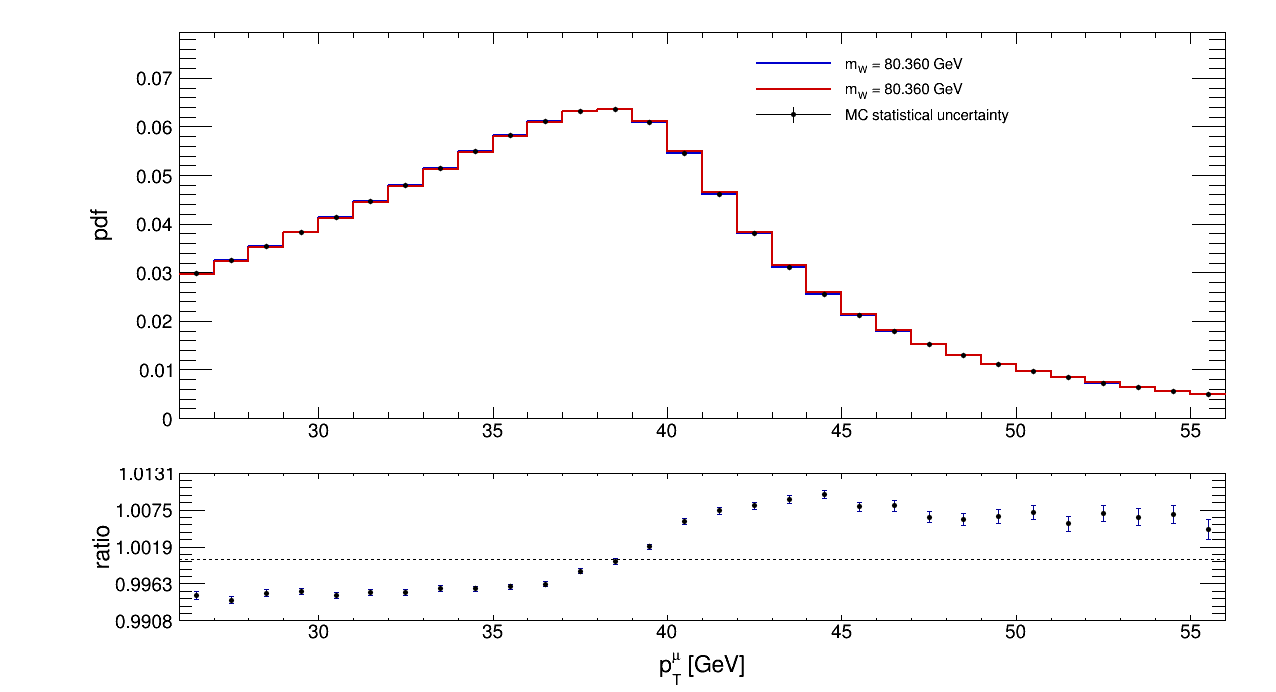
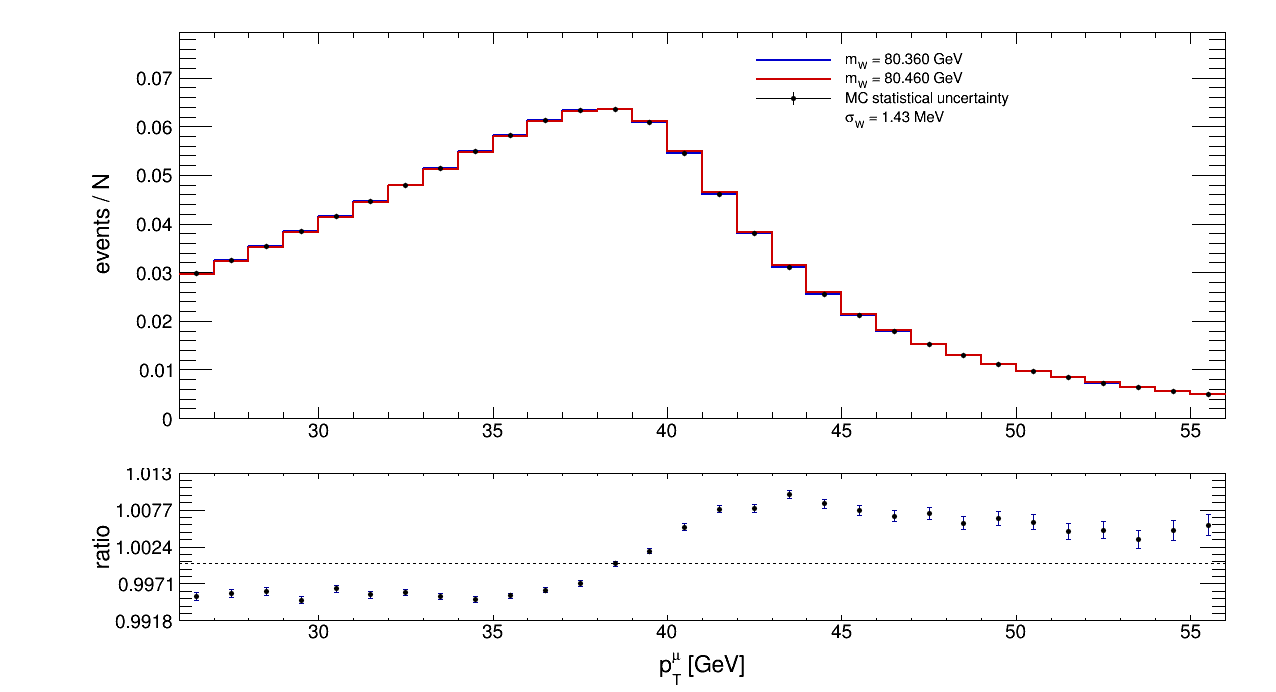
modifiche sui nomi delle classi e aggiunta di save_histogram()

diff --git a/main.cpp b/main.cpp
@@ -3,7 +3,7 @@
 #include <ROOT/RDataFrame.hxx>
 
 #include <SpectrumBuilder.hpp>
-#include <MassSensitivityAnalyzer.hpp>
+#include <FisherInformation.hpp>
 #include <HistUtils.hpp>
 
 #include <filesystem>
@@ -75,6 +75,7 @@ const char* output_dir{ DATA_DIR "/results" };
 const char* input_file{ DATA_DIR "/input/parameters.txt" };
 const char* output_file{ DATA_DIR "/results/sigma_mass.txt" };
 const char* output_hist_file{ DATA_DIR "/results/template_comparison_plot.png" };
+const char* pT_dist_dir{ DATA_DIR "/results/pT_dist.png" };
 
 int main(int argc, char** argv)
 {
@@ -96,6 +97,20 @@ int main(int argc, char** argv)
 
     auto pT_gen{ std::make_unique<PT_Generator>() };
 
+    save_histogram(pT_gen->get_hist(), pT_dist_dir, {
+        .width = CANVAS_WIDTH,
+        .height = CANVAS_HEIGHT,
+        .name = "pTW distribution",
+        .x_axis_content = "p^{T}_{W} [GeV]",
+        .y_axis_content = "pmf",
+        .color = kBlack,
+        .title_size = 0.055,
+        .label_size = 0.045,
+        .title_offset_x = 0.80,
+        .title_offset_y = 0.80,
+        .draw_settings = ""
+    });
+
 
     WDecaySampler sampler0{
         params.W_MASS0,
@@ -111,13 +126,16 @@ int main(int argc, char** argv)
     auto pdf0{ SpectrumBuilder{sampler0, EVENT_COUNT}.releaseHist() };
     auto pdf1{ SpectrumBuilder{sampler1, EVENT_COUNT}.releaseHist() };
 
-    MassSensitivityAnalyzer analyzer{
+    FisherInformation fi{
         pdf0.get(),
         pdf1.get(),
         W_DELTA
     };
 
-    TemplateComparison tc(pdf0.get(), pdf1.get(), {
+    auto ratioHist{ fi.releaseRatioHist() };
+    double sigma{ fi.sigma() };
+
+    TemplateComparison tc(pdf0.get(), pdf1.get(), sigma, {
         .width = CANVAS_WIDTH,
         .height = CANVAS_HEIGHT,
         .nominal_mass = params.W_MASS0,
@@ -128,7 +146,7 @@ int main(int argc, char** argv)
         .shifted_hist_color = kRed + 1,
         .upper_x_axis_content = "",
         .lower_x_axis_content = "p_{T}^{#mu} [GeV]",
-        .upper_y_axis_content = "pdf",
+        .upper_y_axis_content = "events / N",
         .lower_y_axis_content = "ratio",
         .title_size = 0.055,
         .label_size = 0.045,
@@ -138,8 +156,7 @@ int main(int argc, char** argv)
 
     tc.save_as(output_hist_file);
 
-    auto ratioHist{ analyzer.releaseRatioHist() };
-    double sigma{ analyzer.sigma() };
+    
 
     auto end{ std::chrono::high_resolution_clock::now() };
     auto elapsed{ std::chrono::duration_cast<std::chrono::milliseconds>(end - start) };
@@ -147,7 +164,7 @@ int main(int argc, char** argv)
     std::ostringstream content;
     content << "sigma_mass = " << sigma << " GeV\n\n"
             << "generated events = " << EVENT_COUNT << "\n"
-            << "selected events = " << analyzer.get_selected_events_count() << "\n"
+            << "selected events = " << fi.get_selected_events_count() << "\n"
             << "acceptance mass 0 = " << (static_cast<double>(pdf0->Integral()) / EVENT_COUNT) << "\n"
             << "acceptance mass 1 = " << (static_cast<double>(pdf1->Integral()) / EVENT_COUNT) << "\n"
             << "execution time = " << elapsed.count() / 1000. << " s\n";

diff --git a/src/HistUtils.cpp b/src/HistUtils.cpp
@@ -3,9 +3,11 @@
 #include <TLegend.h>
 #include <TLine.h>
 
+#include <format>
 
-TemplateComparison::TemplateComparison(TH1* nominal, TH1* shifted,const CanvasPropeties& props)
-: CanvasProps{ props }
+
+TemplateComparison::TemplateComparison(TH1* nominal, TH1* shifted, double sigmaW, const CanvasPropeties& props)
+: CanvasProps{ props }, SigmaW{ sigmaW }
 {
     if (!nominal || !shifted)
         throw std::runtime_error("Null histogram");
@@ -162,13 +164,13 @@ void TemplateComparison::save_as(const std::string& path)
 
     legend.AddEntry(
         Nominal.get(),
-        Form("m_{W} = %.3f GeV", CanvasProps.nominal_mass),
+        std::format("m_{{W}} = {:.3f} GeV", CanvasProps.nominal_mass).c_str(),
         "l"
     );
 
     legend.AddEntry(
         Shifted.get(),
-        Form("m_{W} = %.3f GeV", CanvasProps.nominal_mass),
+        std::format("m_{{W}} = {:.3f} GeV", CanvasProps.shifted_mass).c_str(),
         "l"
     );
 
@@ -177,6 +179,12 @@ void TemplateComparison::save_as(const std::string& path)
         "MC statistical uncertainty",
         "lep"
     );
+    legend.AddEntry(
+        (TObject*)nullptr,
+        std::format("#sigma_{{W}} = {:.2f} MeV", SigmaW * 1000.).c_str(),
+        ""    
+    );
+    
 
     legend.Draw();
 
@@ -201,5 +209,43 @@ void TemplateComparison::save_as(const std::string& path)
     unity.Draw("SAME");
 
     canvas.cd();
+    canvas.SaveAs(path.c_str());
+}
+
+void save_histogram(TH1* hist, const std::string& path, const SaveHistParams& params)
+{
+    auto copy{ std::unique_ptr<TH1>(dynamic_cast<TH1*>(hist->Clone())) };
+    copy->SetTitle(params.name.c_str());
+
+    TCanvas canvas{
+        "histogram", "", 
+        static_cast<Int_t>(params.width),
+        static_cast<Int_t>(params.height)
+    };
+
+    canvas.cd();
+
+    copy->GetXaxis()->SetTitle(params.x_axis_content.c_str());
+    copy->GetYaxis()->SetTitle(params.y_axis_content.c_str());
+    
+    copy->GetXaxis()->CenterTitle();
+    copy->GetYaxis()->CenterTitle();
+
+
+    copy->GetXaxis()->SetTitleSize(params.title_size);
+    copy->GetXaxis()->SetLabelSize(params.label_size);
+    copy->GetXaxis()->SetTitleOffset(params.title_offset_x);
+    
+    copy->GetYaxis()->SetTitleSize(params.title_size);
+    copy->GetYaxis()->SetLabelSize(params.label_size);
+    copy->GetYaxis()->SetTitleOffset(params.title_offset_y);
+
+    copy->SetLineColor(params.color);
+    copy->SetLineWidth(2);
+    copy->SetFillStyle(0);
+
+    copy->SetStats(false);
+    copy->Draw(params.draw_settings.c_str());
+
     canvas.SaveAs(path.c_str());
 }

diff --git a/src/FisherInformation.cpp b/src/FisherInformation.cpp
@@ -1,8 +1,8 @@
-#include <MassSensitivityAnalyzer.hpp>
+#include <FisherInformation.hpp>
 #include <cmath>
 #include <iostream>
 
-MassSensitivityAnalyzer::MassSensitivityAnalyzer(TH1D* h0, TH1D* h1, double deltaMass)
+FisherInformation::FisherInformation(TH1D* h0, TH1D* h1, double deltaMass)
 {
     ratioHist = std::unique_ptr<TH1D>(
         dynamic_cast<TH1D*>(h1->Clone("h_ratio"))
@@ -28,21 +28,21 @@ MassSensitivityAnalyzer::MassSensitivityAnalyzer(TH1D* h0, TH1D* h1, double delt
     selectedEvents = h0->Integral();
     sigmaMass = 1.0 / std::sqrt(selectedEvents * fisher);
 }
-std::size_t MassSensitivityAnalyzer::get_selected_events_count() const
+std::size_t FisherInformation::get_selected_events_count() const
 {
     return selectedEvents;
 }
 
-TH1D* MassSensitivityAnalyzer::getRatioHist() const
+TH1D* FisherInformation::getRatioHist() const
 {
     return ratioHist.get();
 }
-std::unique_ptr<TH1D> MassSensitivityAnalyzer::releaseRatioHist()
+std::unique_ptr<TH1D> FisherInformation::releaseRatioHist()
 {
     return std::move(ratioHist);
 }
 
-double MassSensitivityAnalyzer::sigma() const
+double FisherInformation::sigma() const
 {
     return sigmaMass;
 }

diff --git a/include/HistUtils.hpp b/include/HistUtils.hpp
@@ -30,7 +30,7 @@ public:
         double title_offset_y;
     };
 
-    TemplateComparison(TH1* nominal, TH1* shifted,const CanvasPropeties& props);
+    TemplateComparison(TH1* nominal, TH1* shifted, double sigmaW, const CanvasPropeties& props);
 
     TemplateComparison(const TemplateComparison&) = delete;
     TemplateComparison& operator=(const TemplateComparison&) = delete;
@@ -43,8 +43,25 @@ public:
     ~TemplateComparison() = default;
 private:
     std::unique_ptr<TH1> Nominal, Shifted, Ratio, Error;
-    
     CanvasPropeties CanvasProps;
+    double SigmaW;
 };
+
+
+struct SaveHistParams
+{
+    std::size_t width;
+    std::size_t height; 
+    std::string name;
+    std::string x_axis_content;
+    std::string y_axis_content;
+    int color;
+    double title_size;
+    double label_size;
+    double title_offset_x;
+    double title_offset_y;
+    std::string draw_settings;
+};
+void save_histogram(TH1* hist, const std::string& path, const SaveHistParams& params);
 
 #endif //HISTUTILS_HPP

diff --git a/include/FisherInformation.hpp b/include/FisherInformation.hpp
@@ -1,0 +1,31 @@
+#ifndef FISHERINFORMATION_HPP
+#define FISHERINFORMATION_HPP
+
+#include <TH1.h>
+
+class FisherInformation
+{
+public:
+    FisherInformation() = delete;
+    FisherInformation(TH1D* h0, TH1D* h1, double deltaMass);
+
+    FisherInformation(const FisherInformation&) = delete;
+    FisherInformation& operator=(const FisherInformation&) = delete;
+
+    FisherInformation(FisherInformation&&) = default;
+    FisherInformation& operator=(FisherInformation&&) = default;
+
+    TH1D* getRatioHist() const;
+    std::unique_ptr<TH1D> releaseRatioHist();
+
+    std::size_t get_selected_events_count() const;
+    double sigma() const;
+    ~FisherInformation() = default;
+private:
+
+    std::unique_ptr<TH1D> ratioHist;
+    double sigmaMass;
+    std::size_t selectedEvents;
+};
+
+#endif //FISHERINFORMATION_HPP

diff --git a/src/WDecaySampler.cpp b/src/WDecaySampler.cpp
@@ -23,21 +23,6 @@ WDecaySampler::WDecaySampler(double WMass, double WWidth, const Generator * cons
 }
 
 template<std::invocable Func>
-double generate_random_gaussian(double mean, double sigma,Func&& rand)
-{
-    double u1 = rand();
-    double u2 = rand();
-
-    while (u1 <= 0.0)
-        u1 = rand();
-
-    double z = std::sqrt(-2.0 * std::log(u1))
-             * std::cos(2.0 * M_PI * u2);
-
-    return mean + sigma * z;
-}
-
-template<std::invocable Func>
 double generate_random_eta(Func&& rand) {
     double cos_theta = rand() * 2.0 - 1.0;
     return std::atanh(cos_theta);
@@ -176,4 +161,8 @@ std::unique_ptr<Generator> PT_Generator::clone() const
 {
     auto copy = std::unique_ptr<PT_Generator>{ new PT_Generator{ *this } };
     return copy;  
+}
+TH1* PT_Generator::get_hist()
+{
+    return hist.get();
 }

diff --git a/include/SpectrumBuilder.hpp b/include/SpectrumBuilder.hpp
@@ -21,7 +21,7 @@ public:
     static constexpr double MAX_MUON_PT = 56.0; // GeV/c
     static constexpr double MIN_ETA = -2.4;
     static constexpr double MAX_ETA = 2.4;
-    static constexpr double MIN_TRANSVERSE_MASS = 40; //GeV/c
+    static constexpr double MIN_TRANSVERSE_MASS = 40; //GeV/x
 
     static constexpr std::size_t BIN_COUNT = 30; 
     

diff --git a/include/WDecaySampler.hpp b/include/WDecaySampler.hpp
@@ -39,6 +39,7 @@ public:
     PT_Generator& operator=(PT_Generator&&) = delete;
 
     virtual double operator()();
+    TH1* get_hist();
     virtual std::unique_ptr<Generator> clone() const;
     virtual ~PT_Generator() = default;
 

diff --git a/src/SpectrumBuilder.cpp b/src/SpectrumBuilder.cpp
@@ -1,6 +1,5 @@
-#include "SpectrumBuilder.hpp"
+#include <SpectrumBuilder.hpp>
 #include <ROOT/RDataFrame.hxx>
-
 SpectrumBuilder::SpectrumBuilder(const WDecaySampler& sampler, std::size_t event_count)
 : event_count{ event_count }
 {
